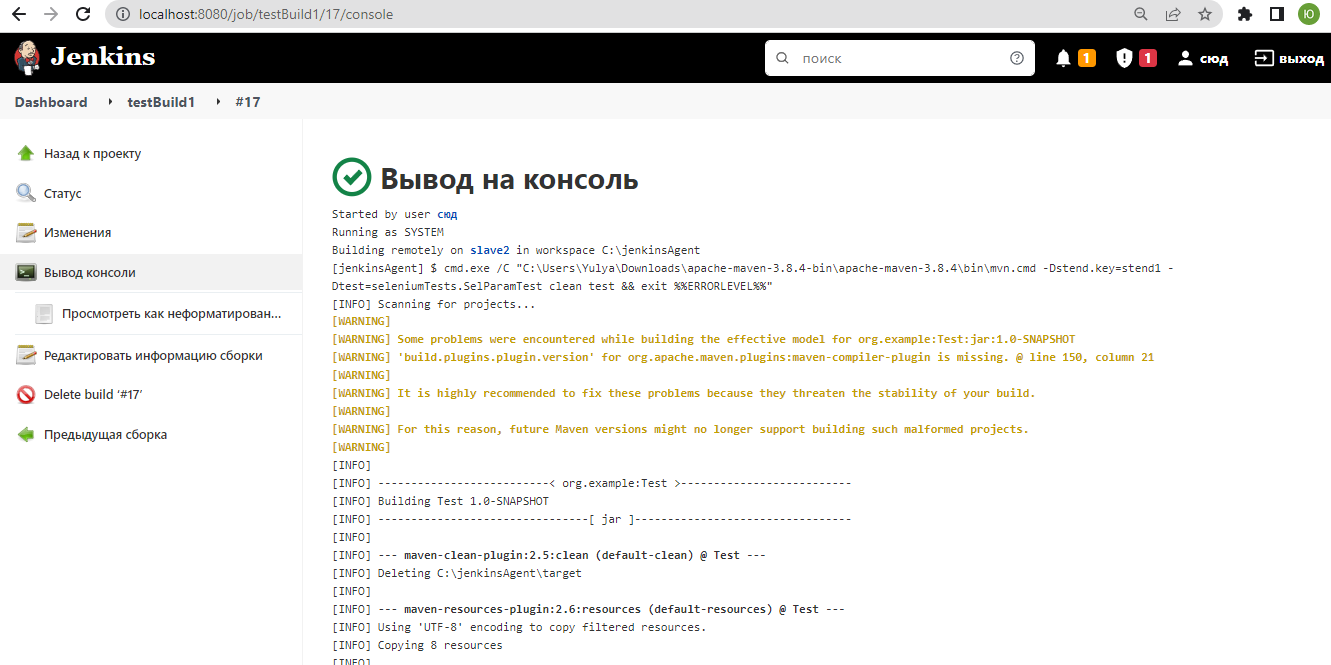
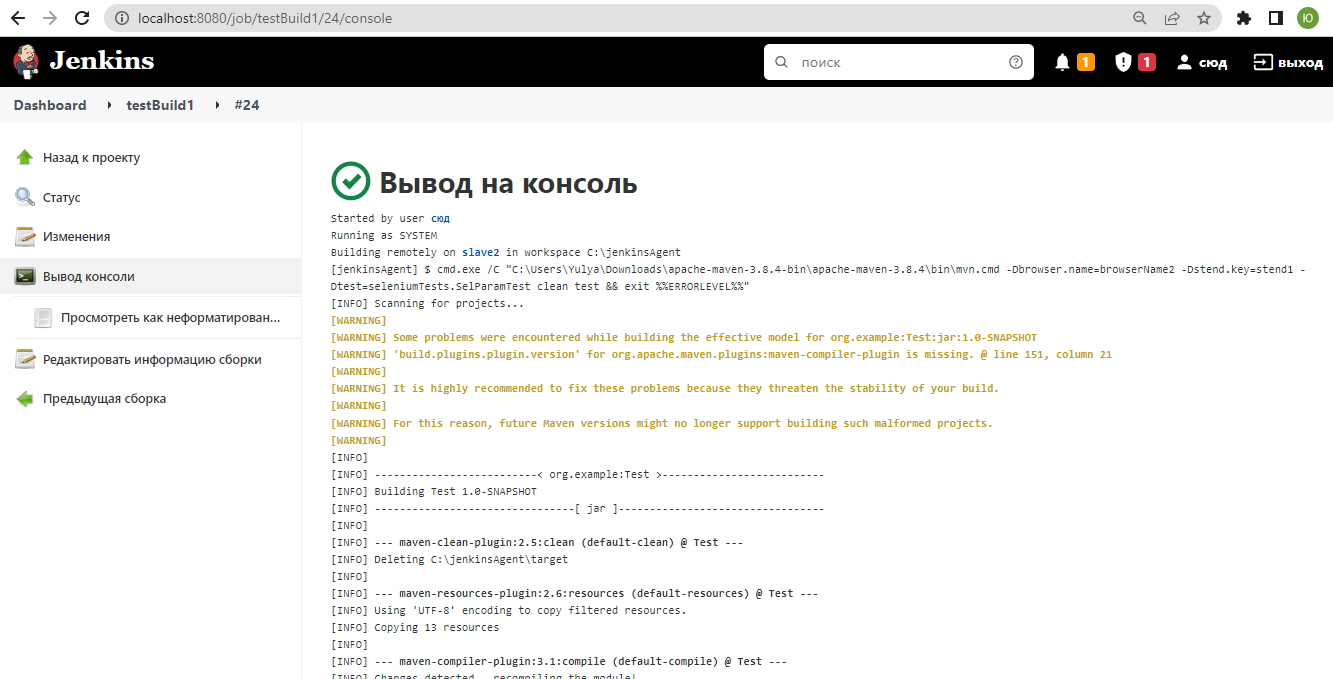
Добавлен выбор браузера параметром

diff --git a/src/test/java/seleniumTests/BaseTest.java b/src/test/java/seleniumTests/BaseTest.java
@@ -1,6 +1,7 @@
 package seleniumTests;
 
 import io.qameta.allure.Attachment;
+import org.openqa.selenium.Capabilities;
 import org.openqa.selenium.OutputType;
 import org.openqa.selenium.TakesScreenshot;
 import org.openqa.selenium.WebDriver;
@@ -17,6 +18,7 @@ import utils.PropertyLoader;
 import java.net.MalformedURLException;
 import java.net.URL;
 import java.rmi.Remote;
+import java.util.Objects;
 
 public class BaseTest {
 
@@ -27,31 +29,29 @@ public class BaseTest {
     //public String setStringKey = System.setProperty("StendKey", "stend1");
     public static String stendKey = System.getProperty("StendKey", "stend1");
     public static String stendUrl = PropertyLoader.loadProperty(stendKey);
+    public static String browserNameKey = System.getProperty("BrowserName", "browserName1");
+    public static String browserName = PropertyLoader.loadProperty(browserNameKey);
 
     @BeforeTest
     public void  beforeT() {
-//        System.setProperty("webdriver.chrome.driver", "./src/main/resources/chromedriver.exe");
-//        ChromeOptions op = new ChromeOptions();
-//        //op.addArguments("user-agent=\"Mozilla/5.0 (Windows NT 10.0; Win64; x64) AppleWebKit/537.36 (KHTML, like Gecko) Chrome/99.0.4844.51 Safari/537.36\"");
-////        DesiredCapabilities dc = DesiredCapabilities.chrome();
-////        dc.setCapability(ChromeOptions.CAPABILITY, op);
-////        driver = new ChromeDriver();
-//
-//        //op.setCapability("version", "selenoid_buharova");
-//
-//        URL hub = null;
-//
-//        try {
-//            hub = new URL("http://localhost:4445/wd/hub");
-//        } catch (MalformedURLException e) {
-//            e.printStackTrace();
-//        }
-//
-//        driver = new RemoteWebDriver(hub, op);
+        Capabilities op = null;
+        if (browserName.equals("chrome")) {
+            c.logToReport("используется браузер Chrome");
+            System.setProperty("webdriver.chrome.driver", "./src/main/resources/chromedriver.exe");
+            op = new ChromeOptions();
+        }
 
+        if (browserName.equals("firefox")) {
+            c.logToReport("используется браузер Firefox");
+            System.setProperty("webdriver.gecko.driver", "./src/main/resources/geckodriver.exe");
+            op = new FirefoxOptions();
+        }
+        //op.addArguments("user-agent=\"Mozilla/5.0 (Windows NT 10.0; Win64; x64) AppleWebKit/537.36 (KHTML, like Gecko) Chrome/99.0.4844.51 Safari/537.36\"");
+//        DesiredCapabilities dc = DesiredCapabilities.chrome();
+//        dc.setCapability(ChromeOptions.CAPABILITY, op);
+//        driver = new ChromeDriver();
 
-        System.setProperty("webdriver.gecko.driver", "./src/main/resources/geckodriver.exe");
-        FirefoxOptions op = new FirefoxOptions();
+        //op.setCapability("version", "selenoid_buharova");
 
         URL hub = null;
 
@@ -62,7 +62,6 @@ public class BaseTest {
         }
 
         driver = new RemoteWebDriver(hub, op);
-
     }
 
     @AfterTest
